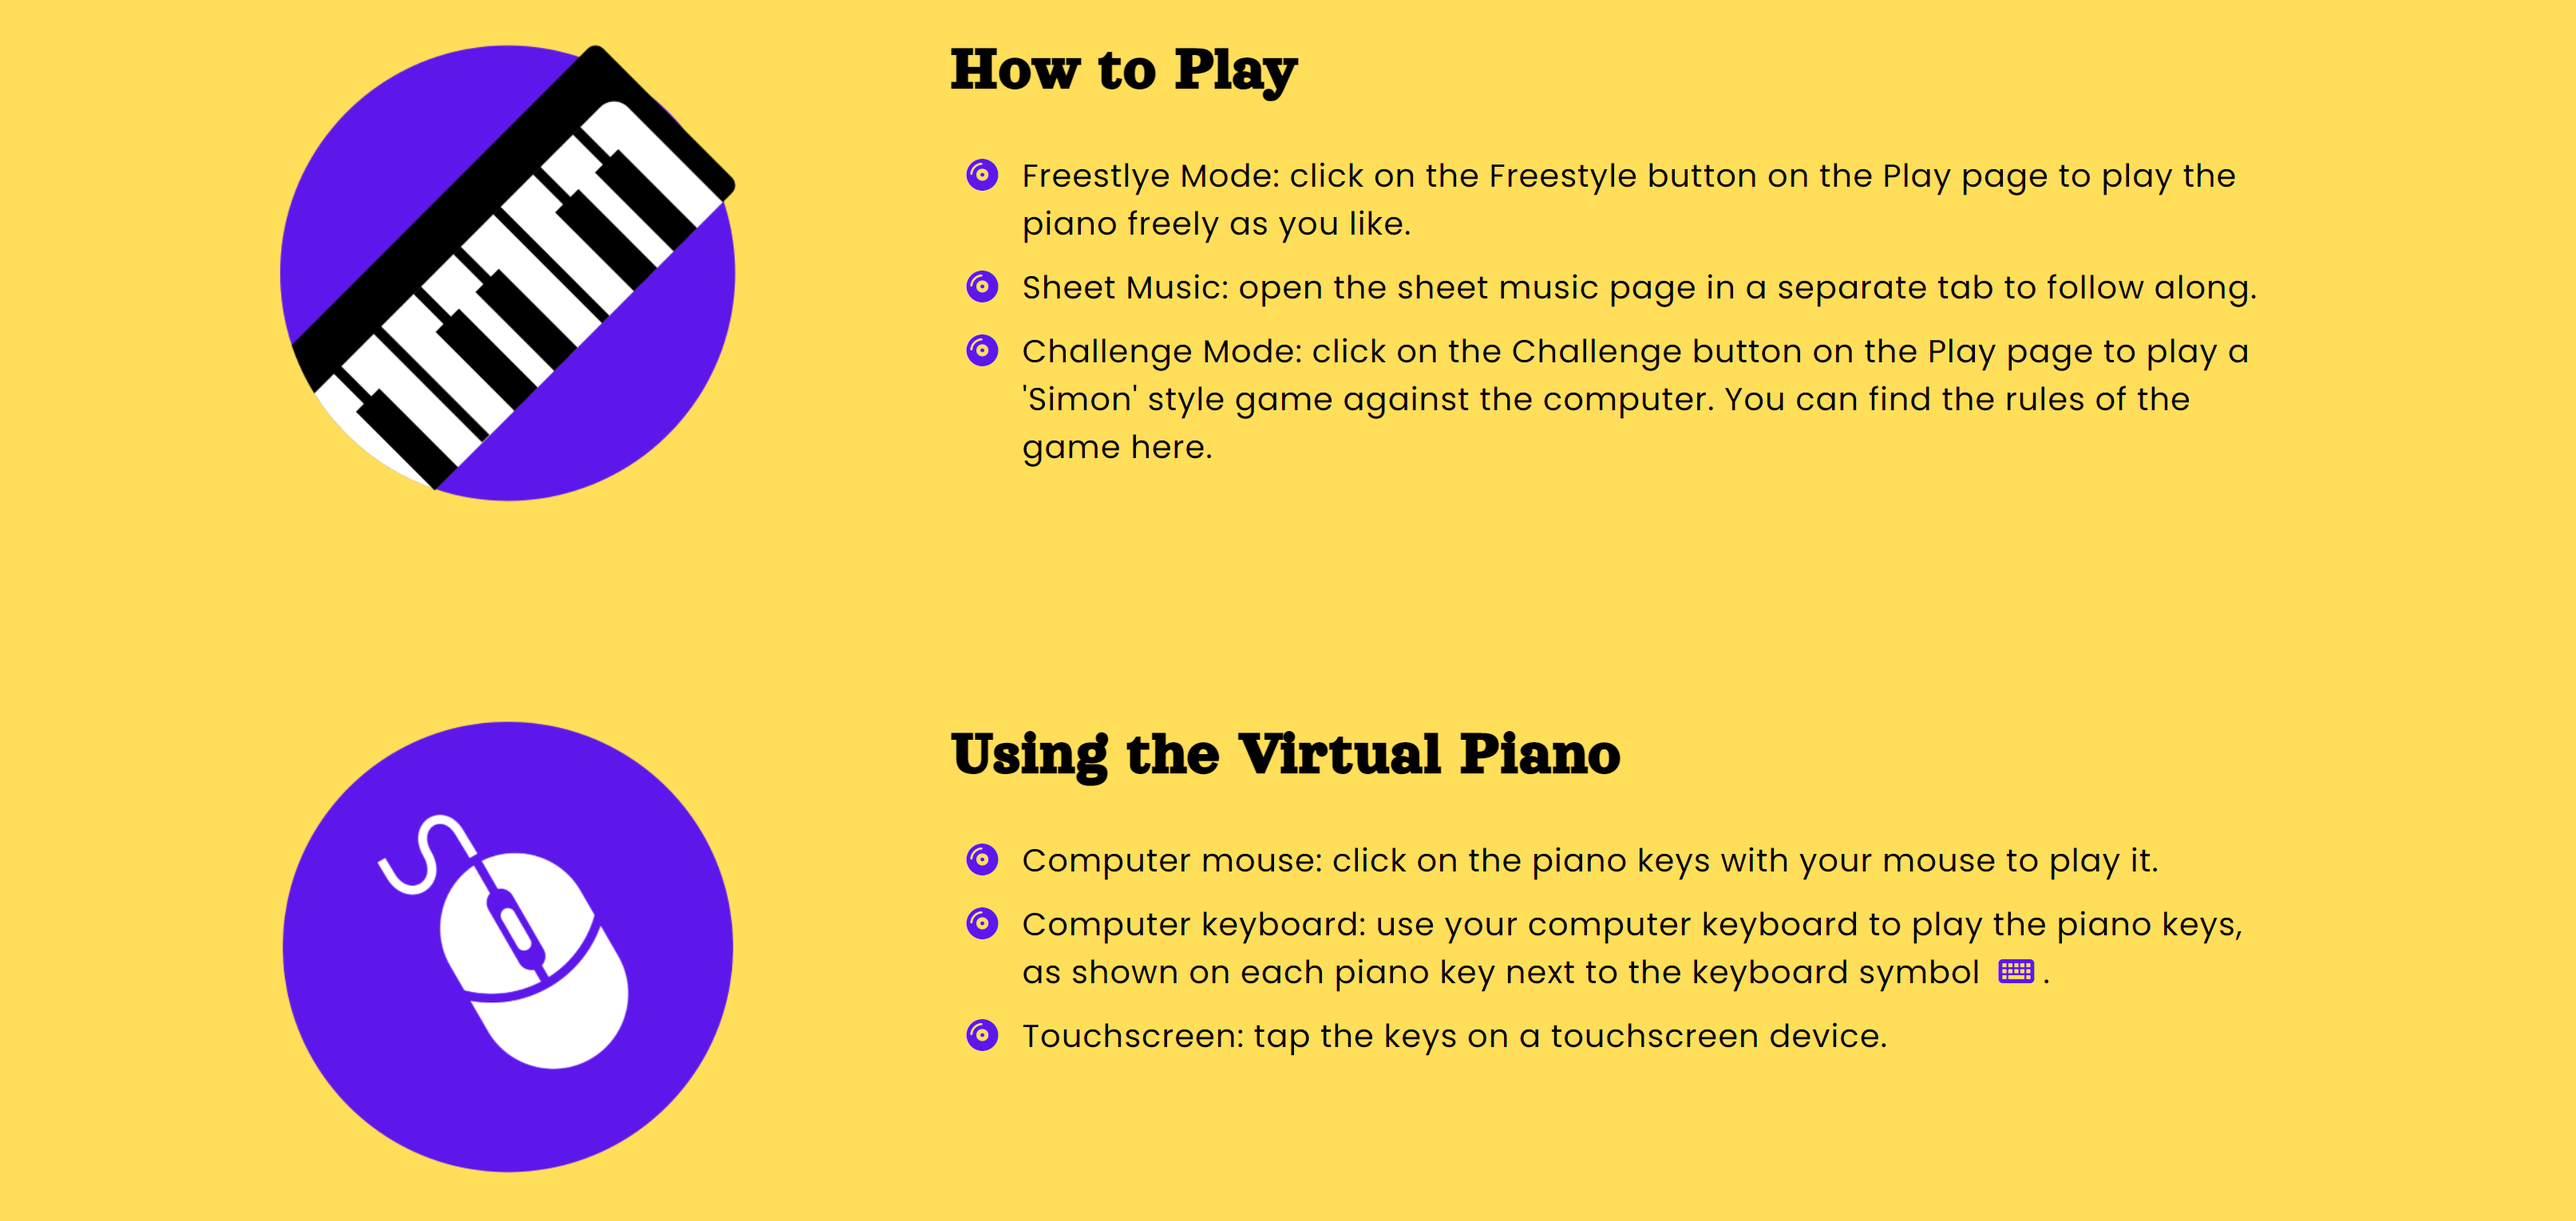
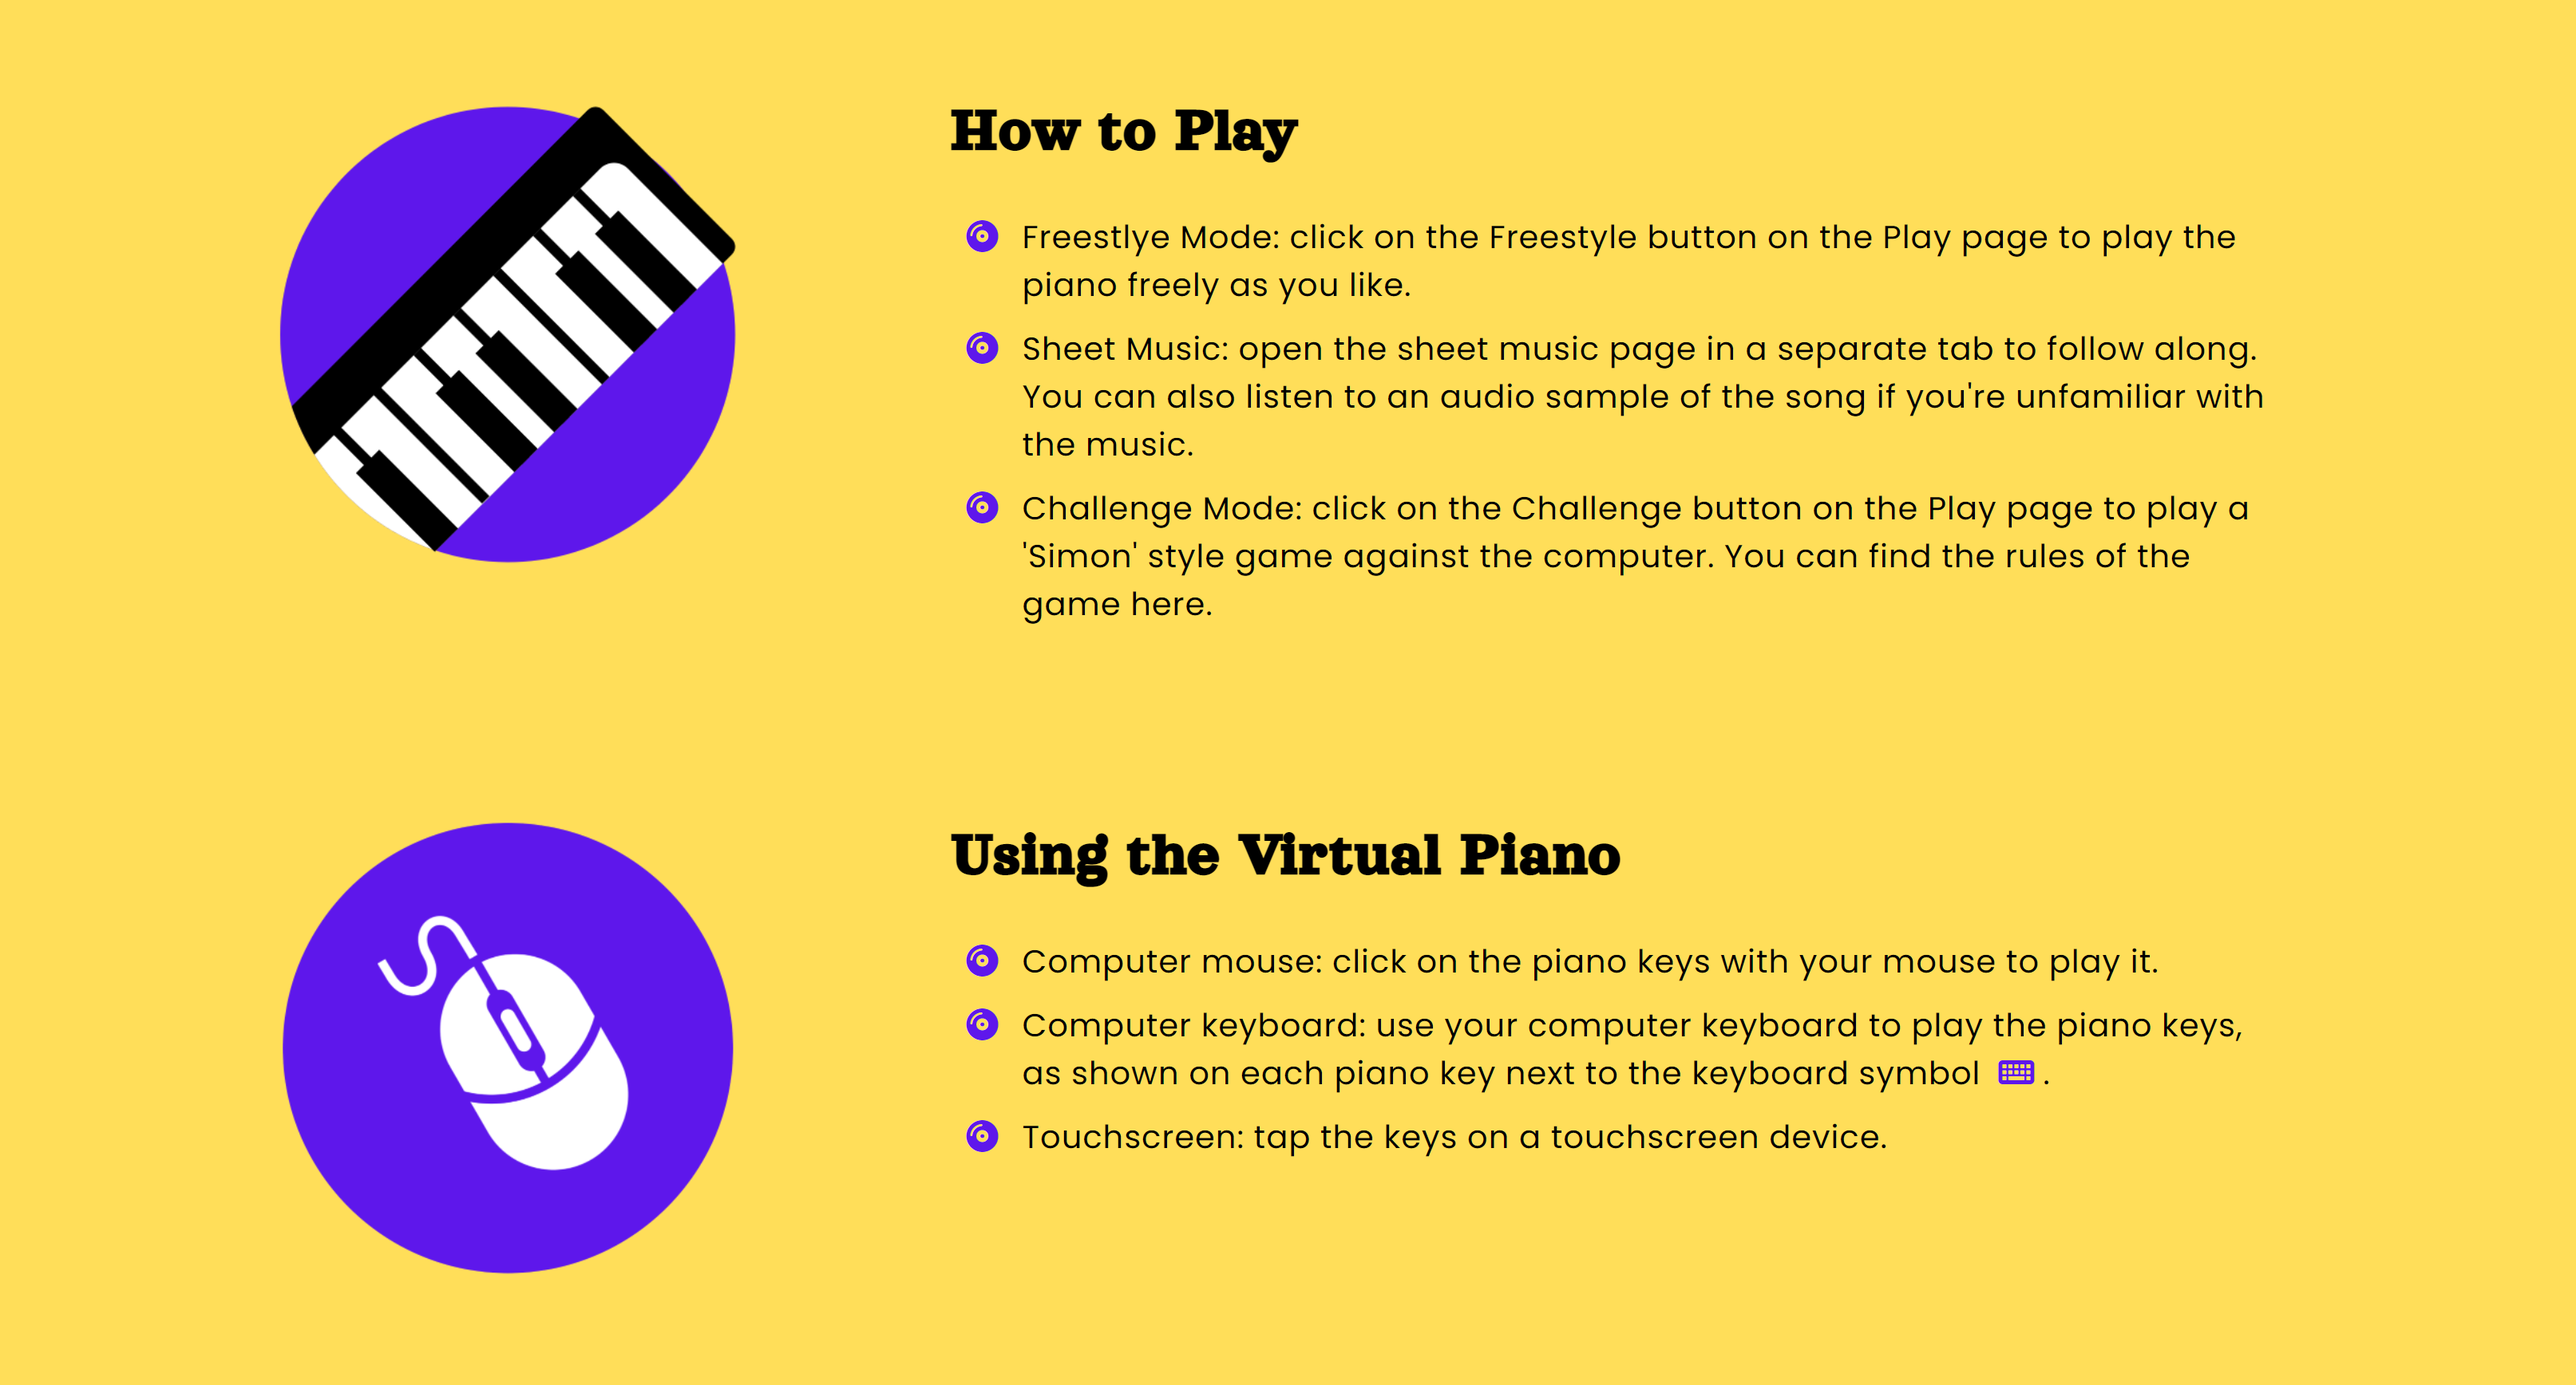
Mention audio samples on sheet music page in README and instructions

diff --git a/instructions.html b/instructions.html
@@ -111,7 +111,7 @@
                         <li><span class="fa-li"><i class="fa-solid fa-compact-disc"></i></span>Freestlye Mode: click on the Freestyle button on the Play page to play the piano freely as you like.</li>
                         <li><span class="fa-li"><i class="fa-solid fa-compact-disc"></i></span>Sheet Music: open the sheet music page
                             in
-                            a separate tab to follow along.</li>
+                            a separate tab to follow along. You can also listen to an audio sample of the song if you're unfamiliar with the music.</li>
                         <li><span class="fa-li"><i class="fa-solid fa-compact-disc"></i></span>Challenge Mode: click on the Challenge button on the Play page to play a 'Simon' style
                             game against the computer. You can find the rules of the game <a href="https://en.wikipedia.org/wiki/Simon_(game)#Gameplay" target="_blank"
                             aria-label="Link to Wikipedia's explanation of the Simon game (opens in a new tab)">here.</a></li>
